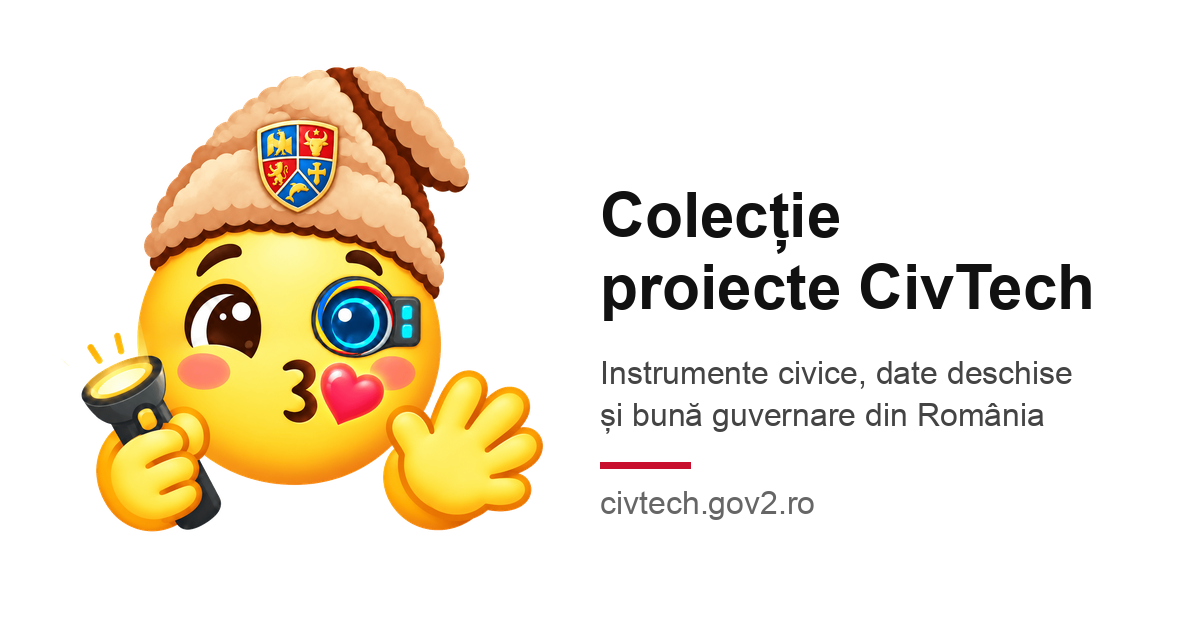
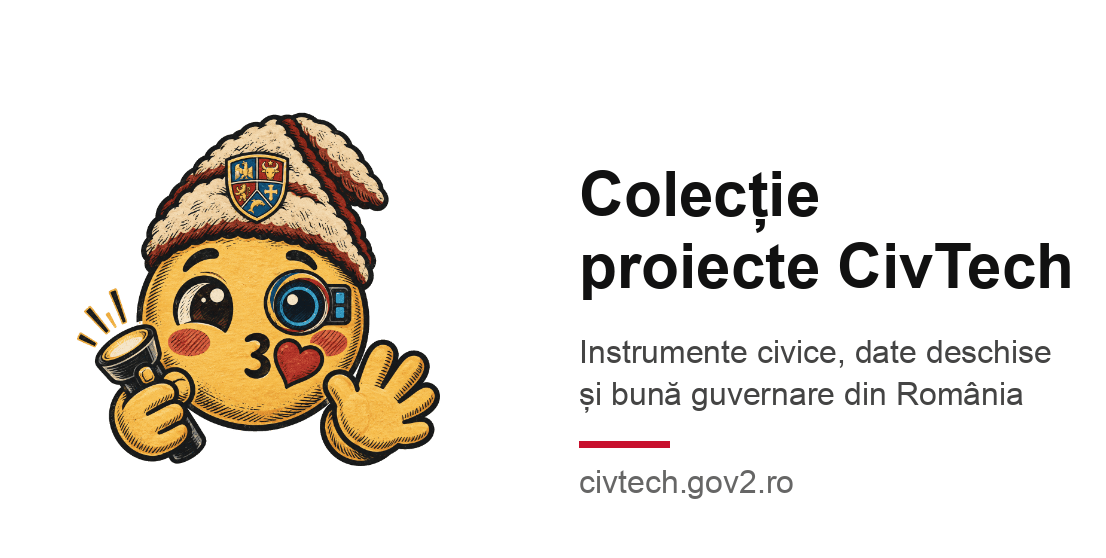
site: new share image

diff --git a/site/index.html b/site/index.html
@@ -14,8 +14,8 @@
 <meta property="og:title" content="Colecție proiecte CivTech">
 <meta property="og:description" content="Director de instrumente civice, date deschise și proiecte de bună guvernare din România.">
 <meta property="og:image" content="https://civtech.gov2.ro/img/share.png">
-<meta property="og:image:width" content="1200">
-<meta property="og:image:height" content="630">
+<meta property="og:image:width" content="1106">
+<meta property="og:image:height" content="558">
 <meta property="og:image:alt" content="Colecție proiecte CivTech — civtech.gov2.ro">
 <meta name="twitter:card" content="summary_large_image">
 <meta name="twitter:title" content="Colecție proiecte CivTech">
